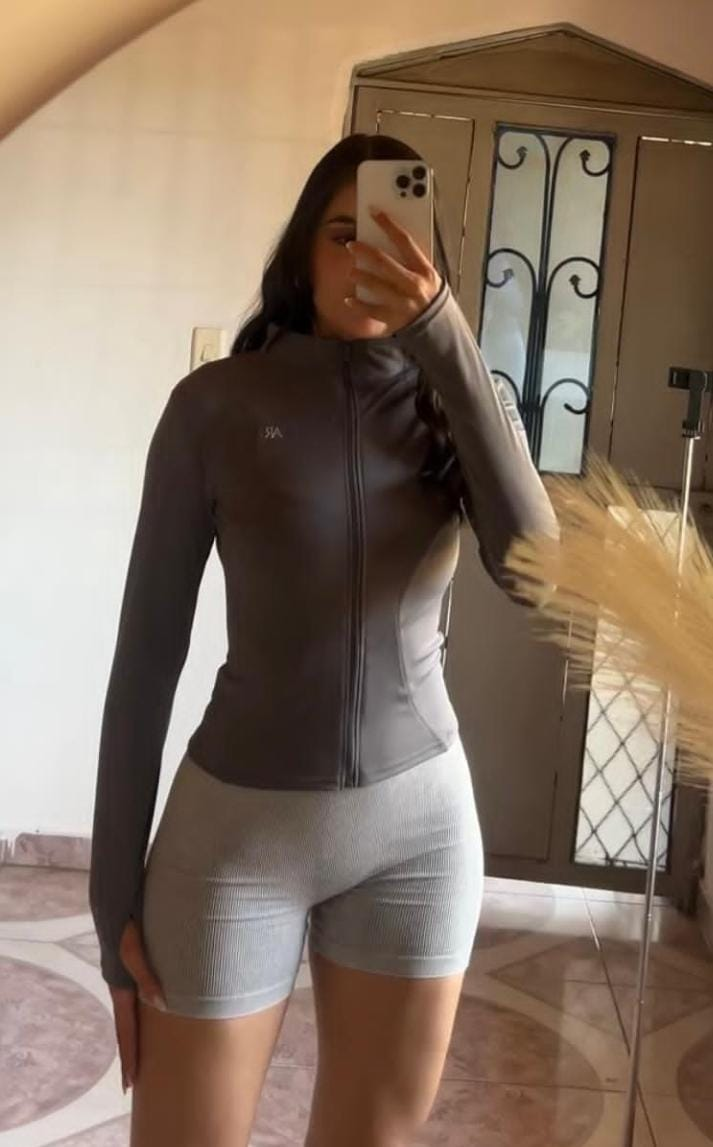
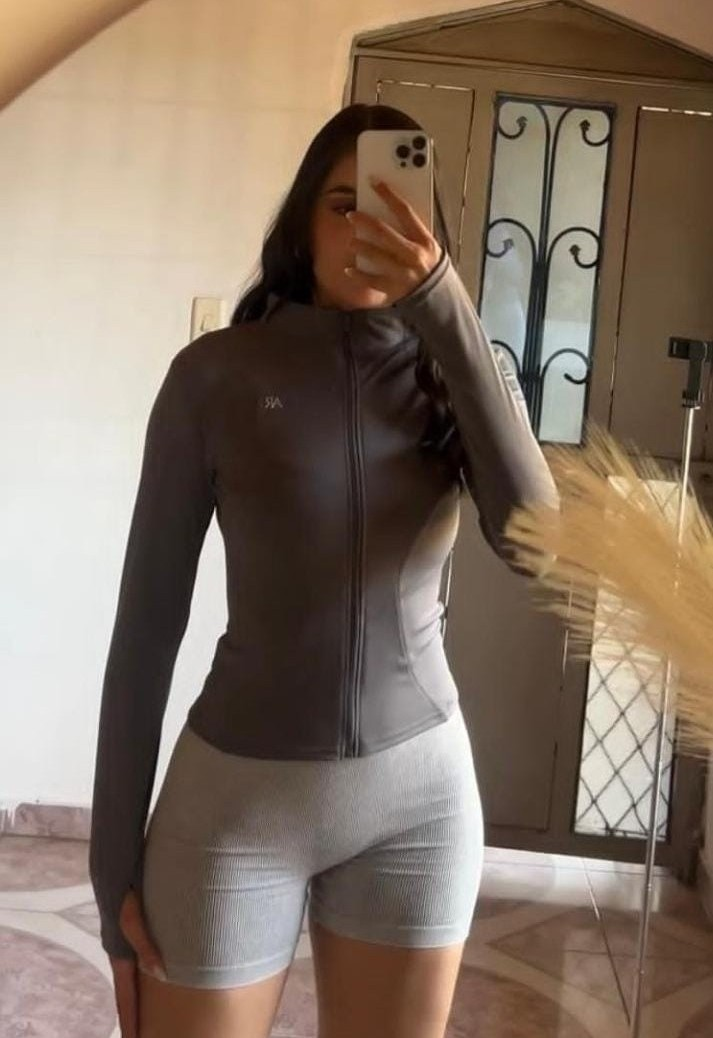
AGREGAMOS PRODUCTO} img d chaqueta

diff --git a/src/Components/Assets/all_product.js b/src/Components/Assets/all_product.js
@@ -83,10 +83,10 @@ import shortacanaladoverde4 from "./lyf/shortacanaladoverde4.jpeg";
 
 // ----------------------- Categoria 3 BODYS Y TOPS -----------------------
 // 302
-import chaqueta1 from "./body/chaqueta1.jpeg";
-import chaqueta2 from "./body/chaqueta2.jpeg";
-import chaqueta3 from "./body/chaqueta3.jpeg";
-import chaqueta4 from "./body/chaqueta4.jpeg";
+import chaquetagris1 from "./body/chaquetagris1.jpeg";
+import chaquetagris2 from "./body/chaquetagris2.jpeg";
+import chaquetagris3 from "./body/chaquetagris3.jpeg";
+import chaquetagris4 from "./body/chaquetagris4.jpeg";
 // 303
 import topsemma1 from "./body/topsemma1.jpeg";
 import topsemma2 from "./body/topsemma2.jpeg";
@@ -533,10 +533,10 @@ let all_product = [
     name: "CHAQUETA CIGNUS - TONO GRIS",
     category: "bodysytops",
     description: "Tela completamente acanalada",
-    image: topemmablanco1,
-    image2: topemmablanco2,
-    image3: topemmablanco3,
-    image4: topemmablanco4,
+    image: chaquetagris1,
+    image2: chaquetagris2,
+    image3: chaquetagris3,
+    image4: chaquetagris4,
     new_price: 65000,
     old_price: 80000,
     sizes: {
